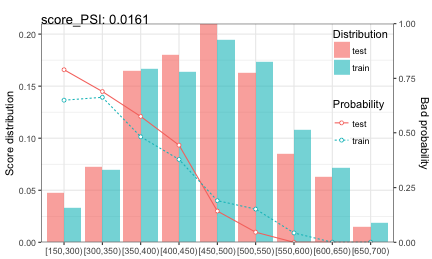
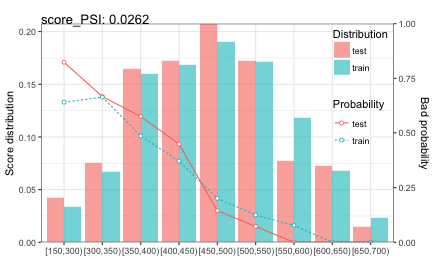
sc

diff --git a/slide/20171115scorecard/index.html b/slide/20171115scorecard/index.html
@@ -76,7 +76,7 @@ class: inverse, center, middle
   &lt;tr&gt;
    &lt;td style="text-align:left;"&gt; basepoints &lt;/td&gt;
    &lt;td style="text-align:left;"&gt; NA &lt;/td&gt;
-   &lt;td style="text-align:right;"&gt; 445 &lt;/td&gt;
+   &lt;td style="text-align:right;"&gt; 449 &lt;/td&gt;
   &lt;/tr&gt;
   &lt;tr&gt;
    &lt;td style="text-align:left;"&gt; present.employment.since &lt;/td&gt;
@@ -175,7 +175,7 @@ class: inverse, center, middle
    &lt;td style="text-align:right;"&gt; -4 &lt;/td&gt;
    &lt;td style="text-align:right;"&gt; -25 &lt;/td&gt;
    &lt;td style="text-align:right;"&gt; -17 &lt;/td&gt;
-   &lt;td style="text-align:right;"&gt; 399 &lt;/td&gt;
+   &lt;td style="text-align:right;"&gt; 403 &lt;/td&gt;
   &lt;/tr&gt;
 &lt;/tbody&gt;
 &lt;/table&gt;
@@ -644,7 +644,7 @@ J(\boldsymbol{w},b)&amp;=&amp;\frac{1}{m}\sum_i{\ell(\hat{y}^{(i)},y^{(i)})}
 ### 正则化(regulation)
 
 在使得代价函数最小时，尤其当样本特征很多时，容易陷入过拟合问题。为了改善过拟合，通常在代价函数中引入正则化项：
-`$$\min{J(\boldsymbol{w},b)}+\frac{\lambda}{2m}(\alpha||\boldsymbol{w}||_1+(1-\alpha)||\boldsymbol{w}||_2^2)$$`
+`$$\min{J(\boldsymbol{w},b)}+\frac{\lambda}{m}(\alpha||\boldsymbol{w}||_1+\frac{1}{2}(1-\alpha)||\boldsymbol{w}||_2^2)$$`
 其中，正则化参数 `\(\lambda&gt;0\)` ; `\(||\boldsymbol{w}||_1=\sum_j{|w_j|}\)` 与 `\(||\boldsymbol{w}||_2^2=\sum_j{w_j^2}=\boldsymbol{w}^T\boldsymbol{w}\)` 分别为L1与L2范数正则化，也分别称为LASSO(Least Absolute Shrinkage and Selection Operator)与"岭回归"(ridge regression)。L1与L2范数正则化都有助于降低过拟合风险，但前者更易于获得稀疏解，即求得的 `\(\boldsymbol{w}\)` 会有更少的非零分量。使用lasso筛选变量的案例如下：
 
 ```r
@@ -847,7 +847,7 @@ data.table::rbindlist(card, fill=TRUE)[1:4,1:4]
 
 ```
 ##                   variable    bin     woe points
-## 1:              basepoints     NA      NA    441
+## 1:              basepoints     NA      NA    444
 ## 2: other.installment.plans   bank  0.4836    -25
 ## 3: other.installment.plans stores  0.4595    -24
 ## 4: other.installment.plans   none -0.1212      6
@@ -868,7 +868,7 @@ str(train_score)
 
 ```
 ## Classes 'data.table' and 'data.frame':	600 obs. of  1 variable:
-##  $ score: num  398 412 415 625 386 360 371 696 395 420 ...
+##  $ score: num  401 415 418 628 389 363 374 699 398 423 ...
 ##  - attr(*, ".internal.selfref")=&lt;externalptr&gt;
 ```
 
@@ -891,7 +891,7 @@ str(train_score2)
 ##  $ credit.history_points                     : num  -3 -3 -3 23 -3 -35 -3 23 -3 -3 ...
 ##  $ duration.in.month_points                  : num  15 -5 56 -5 -5 -5 -22 56 15 15 ...
 ##  $ status.of.existing.checking.account_points: num  -26 -26 -26 49 17 -26 -26 49 -26 49 ...
-##  $ score                                     : num  398 412 415 625 386 360 371 696 395 420 ...
+##  $ score                                     : num  401 415 418 628 389 363 374 699 398 423 ...
 ##  - attr(*, ".internal.selfref")=&lt;externalptr&gt;
 ```
 
@@ -920,83 +920,83 @@ str(train_score2)
   &lt;tr&gt;
    &lt;td style="text-align:left;"&gt; [150,300) &lt;/td&gt;
    &lt;td style="text-align:right;"&gt; 0.0333 &lt;/td&gt;
-   &lt;td style="text-align:right;"&gt; 0.0475 &lt;/td&gt;
-   &lt;td style="text-align:right;"&gt; -0.0142 &lt;/td&gt;
-   &lt;td style="text-align:right;"&gt; -0.3542 &lt;/td&gt;
-   &lt;td style="text-align:right;"&gt; 0.0050 &lt;/td&gt;
-   &lt;td style="text-align:right;"&gt; 0.0161 &lt;/td&gt;
+   &lt;td style="text-align:right;"&gt; 0.0425 &lt;/td&gt;
+   &lt;td style="text-align:right;"&gt; -0.0092 &lt;/td&gt;
+   &lt;td style="text-align:right;"&gt; -0.2429 &lt;/td&gt;
+   &lt;td style="text-align:right;"&gt; 0.0022 &lt;/td&gt;
+   &lt;td style="text-align:right;"&gt; 0.0262 &lt;/td&gt;
   &lt;/tr&gt;
   &lt;tr&gt;
    &lt;td style="text-align:left;"&gt; [300,350) &lt;/td&gt;
-   &lt;td style="text-align:right;"&gt; 0.0700 &lt;/td&gt;
-   &lt;td style="text-align:right;"&gt; 0.0725 &lt;/td&gt;
-   &lt;td style="text-align:right;"&gt; -0.0025 &lt;/td&gt;
-   &lt;td style="text-align:right;"&gt; -0.0351 &lt;/td&gt;
-   &lt;td style="text-align:right;"&gt; 0.0001 &lt;/td&gt;
-   &lt;td style="text-align:right;"&gt; 0.0161 &lt;/td&gt;
+   &lt;td style="text-align:right;"&gt; 0.0667 &lt;/td&gt;
+   &lt;td style="text-align:right;"&gt; 0.0750 &lt;/td&gt;
+   &lt;td style="text-align:right;"&gt; -0.0083 &lt;/td&gt;
+   &lt;td style="text-align:right;"&gt; -0.1178 &lt;/td&gt;
+   &lt;td style="text-align:right;"&gt; 0.0010 &lt;/td&gt;
+   &lt;td style="text-align:right;"&gt; 0.0262 &lt;/td&gt;
   &lt;/tr&gt;
   &lt;tr&gt;
    &lt;td style="text-align:left;"&gt; [350,400) &lt;/td&gt;
-   &lt;td style="text-align:right;"&gt; 0.1667 &lt;/td&gt;
+   &lt;td style="text-align:right;"&gt; 0.1600 &lt;/td&gt;
    &lt;td style="text-align:right;"&gt; 0.1650 &lt;/td&gt;
-   &lt;td style="text-align:right;"&gt; 0.0017 &lt;/td&gt;
-   &lt;td style="text-align:right;"&gt; 0.0101 &lt;/td&gt;
-   &lt;td style="text-align:right;"&gt; 0.0000 &lt;/td&gt;
-   &lt;td style="text-align:right;"&gt; 0.0161 &lt;/td&gt;
+   &lt;td style="text-align:right;"&gt; -0.0050 &lt;/td&gt;
+   &lt;td style="text-align:right;"&gt; -0.0308 &lt;/td&gt;
+   &lt;td style="text-align:right;"&gt; 0.0002 &lt;/td&gt;
+   &lt;td style="text-align:right;"&gt; 0.0262 &lt;/td&gt;
   &lt;/tr&gt;
   &lt;tr&gt;
    &lt;td style="text-align:left;"&gt; [400,450) &lt;/td&gt;
-   &lt;td style="text-align:right;"&gt; 0.1633 &lt;/td&gt;
-   &lt;td style="text-align:right;"&gt; 0.1800 &lt;/td&gt;
-   &lt;td style="text-align:right;"&gt; -0.0167 &lt;/td&gt;
-   &lt;td style="text-align:right;"&gt; -0.0972 &lt;/td&gt;
-   &lt;td style="text-align:right;"&gt; 0.0016 &lt;/td&gt;
-   &lt;td style="text-align:right;"&gt; 0.0161 &lt;/td&gt;
+   &lt;td style="text-align:right;"&gt; 0.1683 &lt;/td&gt;
+   &lt;td style="text-align:right;"&gt; 0.1725 &lt;/td&gt;
+   &lt;td style="text-align:right;"&gt; -0.0042 &lt;/td&gt;
+   &lt;td style="text-align:right;"&gt; -0.0245 &lt;/td&gt;
+   &lt;td style="text-align:right;"&gt; 0.0001 &lt;/td&gt;
+   &lt;td style="text-align:right;"&gt; 0.0262 &lt;/td&gt;
   &lt;/tr&gt;
   &lt;tr&gt;
    &lt;td style="text-align:left;"&gt; [450,500) &lt;/td&gt;
-   &lt;td style="text-align:right;"&gt; 0.1950 &lt;/td&gt;
-   &lt;td style="text-align:right;"&gt; 0.2100 &lt;/td&gt;
-   &lt;td style="text-align:right;"&gt; -0.0150 &lt;/td&gt;
-   &lt;td style="text-align:right;"&gt; -0.0741 &lt;/td&gt;
-   &lt;td style="text-align:right;"&gt; 0.0011 &lt;/td&gt;
-   &lt;td style="text-align:right;"&gt; 0.0161 &lt;/td&gt;
+   &lt;td style="text-align:right;"&gt; 0.1900 &lt;/td&gt;
+   &lt;td style="text-align:right;"&gt; 0.2075 &lt;/td&gt;
+   &lt;td style="text-align:right;"&gt; -0.0175 &lt;/td&gt;
+   &lt;td style="text-align:right;"&gt; -0.0881 &lt;/td&gt;
+   &lt;td style="text-align:right;"&gt; 0.0015 &lt;/td&gt;
+   &lt;td style="text-align:right;"&gt; 0.0262 &lt;/td&gt;
   &lt;/tr&gt;
   &lt;tr&gt;
    &lt;td style="text-align:left;"&gt; [500,550) &lt;/td&gt;
-   &lt;td style="text-align:right;"&gt; 0.1733 &lt;/td&gt;
-   &lt;td style="text-align:right;"&gt; 0.1625 &lt;/td&gt;
-   &lt;td style="text-align:right;"&gt; 0.0108 &lt;/td&gt;
-   &lt;td style="text-align:right;"&gt; 0.0645 &lt;/td&gt;
-   &lt;td style="text-align:right;"&gt; 0.0007 &lt;/td&gt;
-   &lt;td style="text-align:right;"&gt; 0.0161 &lt;/td&gt;
+   &lt;td style="text-align:right;"&gt; 0.1717 &lt;/td&gt;
+   &lt;td style="text-align:right;"&gt; 0.1725 &lt;/td&gt;
+   &lt;td style="text-align:right;"&gt; -0.0008 &lt;/td&gt;
+   &lt;td style="text-align:right;"&gt; -0.0048 &lt;/td&gt;
+   &lt;td style="text-align:right;"&gt; 0.0000 &lt;/td&gt;
+   &lt;td style="text-align:right;"&gt; 0.0262 &lt;/td&gt;
   &lt;/tr&gt;
   &lt;tr&gt;
    &lt;td style="text-align:left;"&gt; [550,600) &lt;/td&gt;
-   &lt;td style="text-align:right;"&gt; 0.1083 &lt;/td&gt;
-   &lt;td style="text-align:right;"&gt; 0.0850 &lt;/td&gt;
-   &lt;td style="text-align:right;"&gt; 0.0233 &lt;/td&gt;
-   &lt;td style="text-align:right;"&gt; 0.2426 &lt;/td&gt;
-   &lt;td style="text-align:right;"&gt; 0.0057 &lt;/td&gt;
-   &lt;td style="text-align:right;"&gt; 0.0161 &lt;/td&gt;
+   &lt;td style="text-align:right;"&gt; 0.1183 &lt;/td&gt;
+   &lt;td style="text-align:right;"&gt; 0.0775 &lt;/td&gt;
+   &lt;td style="text-align:right;"&gt; 0.0408 &lt;/td&gt;
+   &lt;td style="text-align:right;"&gt; 0.4232 &lt;/td&gt;
+   &lt;td style="text-align:right;"&gt; 0.0173 &lt;/td&gt;
+   &lt;td style="text-align:right;"&gt; 0.0262 &lt;/td&gt;
   &lt;/tr&gt;
   &lt;tr&gt;
    &lt;td style="text-align:left;"&gt; [600,650) &lt;/td&gt;
-   &lt;td style="text-align:right;"&gt; 0.0717 &lt;/td&gt;
-   &lt;td style="text-align:right;"&gt; 0.0625 &lt;/td&gt;
-   &lt;td style="text-align:right;"&gt; 0.0092 &lt;/td&gt;
-   &lt;td style="text-align:right;"&gt; 0.1369 &lt;/td&gt;
-   &lt;td style="text-align:right;"&gt; 0.0013 &lt;/td&gt;
-   &lt;td style="text-align:right;"&gt; 0.0161 &lt;/td&gt;
+   &lt;td style="text-align:right;"&gt; 0.0683 &lt;/td&gt;
+   &lt;td style="text-align:right;"&gt; 0.0725 &lt;/td&gt;
+   &lt;td style="text-align:right;"&gt; -0.0042 &lt;/td&gt;
+   &lt;td style="text-align:right;"&gt; -0.0592 &lt;/td&gt;
+   &lt;td style="text-align:right;"&gt; 0.0002 &lt;/td&gt;
+   &lt;td style="text-align:right;"&gt; 0.0262 &lt;/td&gt;
   &lt;/tr&gt;
   &lt;tr&gt;
    &lt;td style="text-align:left;"&gt; [650,700) &lt;/td&gt;
-   &lt;td style="text-align:right;"&gt; 0.0183 &lt;/td&gt;
+   &lt;td style="text-align:right;"&gt; 0.0233 &lt;/td&gt;
    &lt;td style="text-align:right;"&gt; 0.0150 &lt;/td&gt;
-   &lt;td style="text-align:right;"&gt; 0.0033 &lt;/td&gt;
-   &lt;td style="text-align:right;"&gt; 0.2007 &lt;/td&gt;
-   &lt;td style="text-align:right;"&gt; 0.0007 &lt;/td&gt;
-   &lt;td style="text-align:right;"&gt; 0.0161 &lt;/td&gt;
+   &lt;td style="text-align:right;"&gt; 0.0083 &lt;/td&gt;
+   &lt;td style="text-align:right;"&gt; 0.4418 &lt;/td&gt;
+   &lt;td style="text-align:right;"&gt; 0.0037 &lt;/td&gt;
+   &lt;td style="text-align:right;"&gt; 0.0262 &lt;/td&gt;
   &lt;/tr&gt;
 &lt;/tbody&gt;
 &lt;/table&gt;
@@ -1059,7 +1059,7 @@ psi$psi
 
 ```
 ##    variable    PSI
-## 1:    score 0.0161
+## 1:    score 0.0262
 ```
 ]
 
